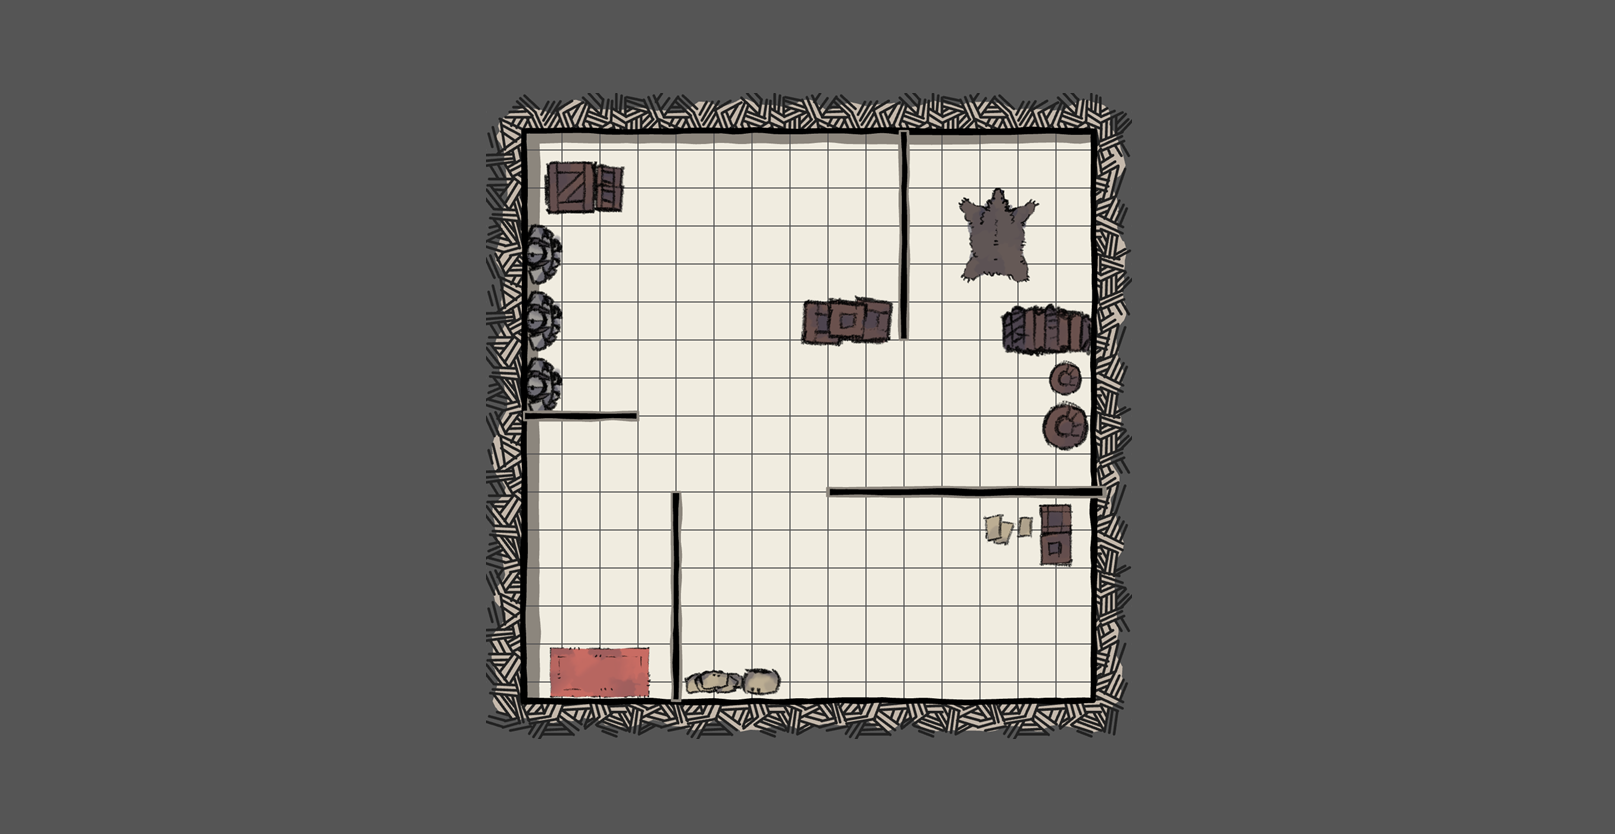
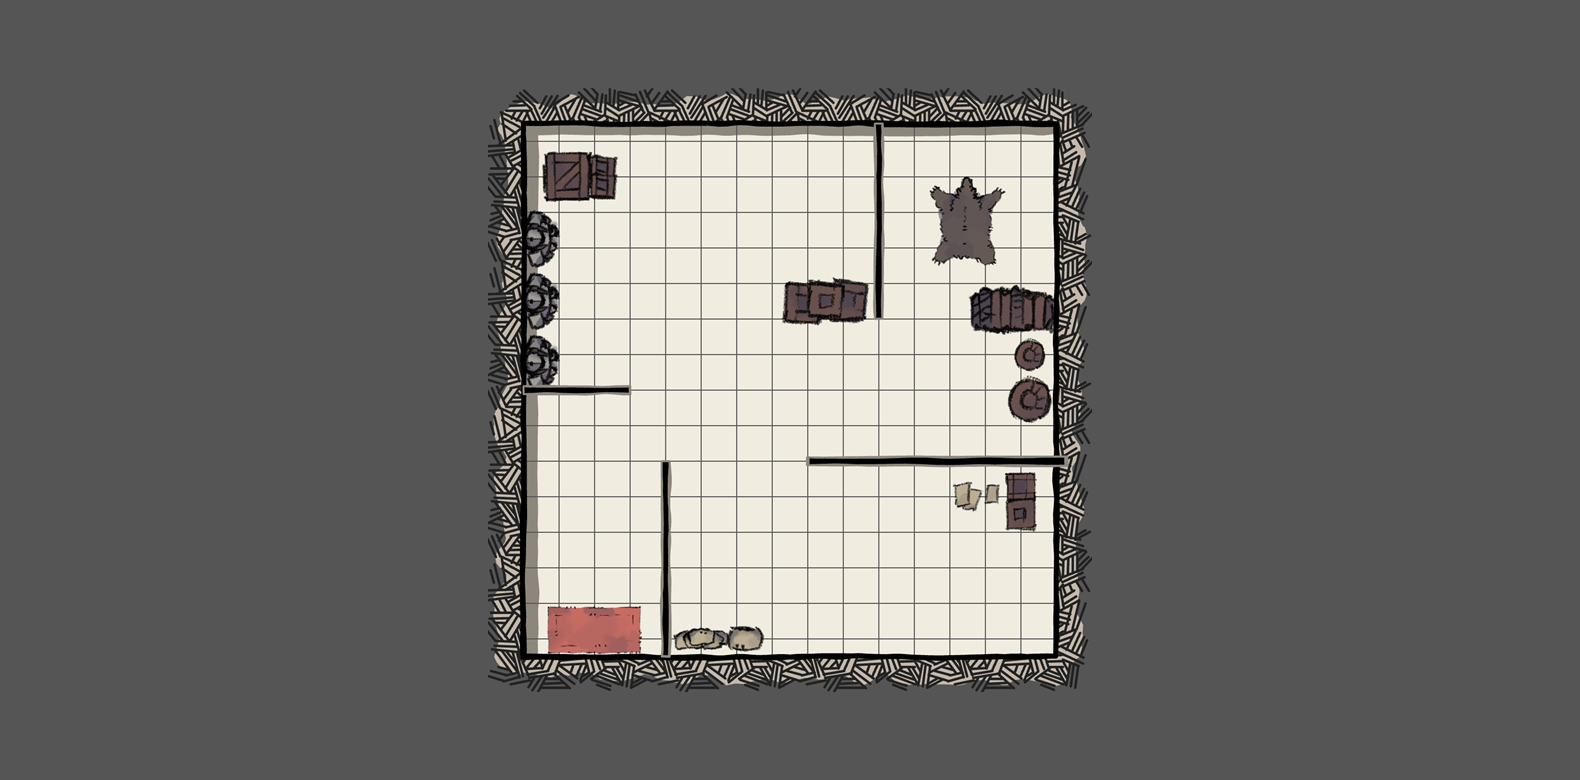
던전 크기 변경해서 다시 수정

Changed region(s): [[0.2791, 0.0923, 0.7133, 0.8923]]

diff --git a/legend_of_boki_ver2/(LOB)Legend Of Boki.py b/legend_of_boki_ver2/(LOB)Legend Of Boki.py
@@ -92,7 +92,7 @@ class SkillOption:
         return self.turn
 
 
-# 더 추가할 필요가 있다면 추가하시면 됩니다. 예: (from PyQt5.QtGui import QIcon)
+
 def resource_path(relative_path):
     base_path = getattr(sys, "_MEIPASS", os.path.dirname(os.path.abspath(__file__)))
     return os.path.join(base_path, relative_path)
@@ -152,6 +152,7 @@ class WindowClass(QMainWindow, game):
 
         # 유저는 보스를 이길 때까지 던전에 입장하지 못함
         self.user_can_enter_dungeon = False
+
         # 랜덤 던전 스팟 번호
         self.dungeon_number = 0
 
@@ -164,10 +165,11 @@ class WindowClass(QMainWindow, game):
         self.portal_sample.setText("포탈")
         self.portal_sample.setStyleSheet('background-color: blue')
         self.portal_sample.show()
+        self.portal_sample.move(random.randint(0, 1580), random.randint(0, 760))  # 포탈 위치 랜덤으로 배정
 
         #던전필드에 던전 이미지 들어갈 라벨 만들기
         self.dungeon_img_label = QLabel(self.Page_Dungeon_Field) #던전필드에 던전이미지 들어갈 라벨 추가, 던전필드를 부모로 설정
-        self.dungeon_img_label.setGeometry(0, 0, 1615, 834)
+        self.dungeon_img_label.setGeometry(0, 0, 1580, 780)
         self.dungeon_img_label.show()
 
         #  이 부분은 아래와 중복
@@ -181,17 +183,37 @@ class WindowClass(QMainWindow, game):
         #
         # random_spot = random.randint(1, 4)  # 시작 캐릭터 위치 랜덤으로 위치시키기
         # self.Character_QLabel.move(positions[random_spot][0], positions[random_spot][1])  # 캐릭터를 상하좌우로 위치시키기
-        self.portal_sample.move(random.randint(1, 1580), random.randint(1, 780))  # 포탈 위치 랜덤으로 배정
-
 
 
 
         # 던전 맵 사이즈(크기별)
         self.map_size = {
-            1: [529, 1087, 136, 695],  # 맵 1번 x시작, x끝, y시작, y끝
-            2: [510, 1106, 120, 713],  # 맵 2번 x시작, x끝, y시작, y끝
-            3: [488, 1127, 97, 736],  # 맵 3번 x시작, x끝, y시작, y끝
-            4: [471, 1145, 80, 754],  # 맵 4번 x시작, x끝, y시작, y끝
+            1: [529, 1049, 129, 649],  # 맵 1번 x시작, x끝, y시작, y끝
+            2: [505, 1063, 115, 664],  # 맵 2번 x시작, x끝, y시작, y끝
+            3: [491, 1088, 91, 688],  # 맵 3번 x시작, x끝, y시작, y끝
+            4: [475, 1104, 73, 703],  # 맵 4번 x시작, x끝, y시작, y끝
+        }
+
+        # 던전맵 벽 값 지정
+        self.wall_list = {
+            1: [(530, 631, 383, 397),  # 던전 맵 1
+                (650, 670, 455, 657),
+                (871, 885, 127, 320),
+                (800, 1051, 449, 470), ],
+            2: [(781, 798, 108, 322),  # 던전 맵 2
+                (502, 935, 451, 470)],
+            3: [(490, 708, 395, 417),  # 던전 맵 3
+                (694, 708, 401, 518),
+                (871, 887, 440, 696),
+                (870, 885, 89, 306),
+                (872, 953, 295, 307)],
+            4: [(475, 545, 311, 430),  # 던전 맵 4
+                (675, 720, 526, 535),
+                (650, 691, 207, 537),
+                (675, 939, 206, 219),
+                (904, 940, 204, 536),
+                (894, 940, 526, 538),
+                (928, 1109, 384, 397),]
         }
 
         # 던전필드에 있는 라벨 정보 가져오기
@@ -330,10 +352,8 @@ class WindowClass(QMainWindow, game):
 
         self.skill_14 = SkillOption("강타", None, random.randrange(2, 50), 10, 1, 1)
         self.skillall = [self.skill_1, self.skill_3, self.skill_4, self.skill_5, self.skill_6,
-                         self.skill_7,
-                         self.skill_8, self.skill_9, self.skill_10, self.skill_11, self.skill_12,
-                         self.skill_13,
-                         self.skill_14]
+                         self.skill_7, self.skill_8, self.skill_9, self.skill_10, self.skill_11,
+                         self.skill_12, self.skill_13, self.skill_14]
         if len(self.choice_btn) > 0:
             for skill in self.skillall:
                 if ((skill.name == self.choice_btn[0].text())
@@ -438,22 +458,23 @@ class WindowClass(QMainWindow, game):
         if random_dungeon_num == 1:
             self.dungeon_number = 1  # 키프레스가 인식해야할 값에 1로 넣어줌
             self.dungeon_img_label.setPixmap(dungeon_img_1)
+            # self.dungeon_img_label.move(0,0)
             # self.StackWidget_Field.setCurrentIndex(1)  # 1번 던전 필드로 이동
-            self.Character_QLabel_2.move(601, 673)  # 캐릭터 던전 입구로 보내기
+            self.Character_QLabel_2.move(592, 631)  # 캐릭터 던전 입구로 보내기
         elif random_dungeon_num == 2:
             self.dungeon_number = 2
             self.dungeon_img_label.setPixmap(dungeon_img_2)
-            self.Character_QLabel_2.move(572, 693)  # 캐릭터 던전 입구로 보내기
+            self.Character_QLabel_2.move(567, 644)  # 캐릭터 던전 입구로 보내기
             # self.Show_Dungeon_Entrance(2)  # 던전 입구 만들기
         elif random_dungeon_num == 3:
             self.dungeon_number = 3
             self.dungeon_img_label.setPixmap(dungeon_img_3)
-            self.Character_QLabel_2.move(560, 702)  # 캐릭터 던전 입구로 보내기
+            self.Character_QLabel_2.move(558, 657)  # 캐릭터 던전 입구로 보내기
             # self.Show_Dungeon_Entrance(3)  # 던전 입구 만들기
         elif random_dungeon_num == 4:
             self.dungeon_number = 4
             self.dungeon_img_label.setPixmap(dungeon_img_4)
-            self.Character_QLabel_2.move(503, 723)  # 캐릭터 던전 입구로 보내기
+            self.Character_QLabel_2.move(504, 674)  # 캐릭터 던전 입구로 보내기
             # self.Show_Dungeon_Entrance(4)  # 던전 입구 만들기
         self.Show_Dungeon_Entrance(random_dungeon_num)  # 던전 입구 만들기
 
@@ -479,11 +500,11 @@ class WindowClass(QMainWindow, game):
         self.boss_monster.show()
 
         # 검은 라벨 만들어서 위에 덮기(유저가 플레이할 때 던전이 안보이게) <= 일단 ㄱ
-        black_label = QLabel(self)
-        black_label.move(0, 30)
-        black_label.setStyleSheet('background-color: rgba(0, 0, 0, 200)') #200으로 설정되어 있는 투명도 높이면 어두워짐
-        black_label.setFixedSize(1580, 780)
-        black_label.show()
+        # black_label = QLabel(self)
+        # black_label.move(0, 0)
+        # black_label.setStyleSheet('background-color: rgba(0, 0, 0, 200)') #200으로 설정되어 있는 투명도 높이면 어두워짐
+        # black_label.setFixedSize(1580, 780)
+        # black_label.show()
 
     def block_dungeon_wall(self, new_position, previous_position, wall_list, num):
         """유저가 던전벽에서 나아가지 못하게 하기"""
@@ -582,34 +603,33 @@ class WindowClass(QMainWindow, game):
                     pass
                     enemy_rand = random.randrange(4)
                     if enemy_rand < 3:
-
                         self.Log_textEdit.setText("적을 만났습니다.")
-                        pass
-                        # self.StackWidget_Field.setCurrentIndex(2)
-                        # self.MainFrame_Bottom.setEnabled(True)
-                        # self.Page_Use.setEnabled(False)
-                        # self.StackWidget_Item.setCurrentWidget(self.Page_Use)
-                        # self.j = 1
-                        # for num in range(1, random.randrange(2, 11)):
-                        #     getattr(self, f'Monster_{num}_Name').setText(
-                        #         getattr(self, f'nomalfield_fire_monster{self.j}').name)  # 몬스터 이름
-                        #     getattr(self, f'Monster_{num}_Name').setStyleSheet("Color : white")
-                        #     getattr(self, f'Monster_{num}_QLabel').setPixmap(
-                        #         QPixmap(getattr(self, f'nomalfield_fire_monster{self.j}').image))  # 몬스터 이미지
-                        #     getattr(self, f'Monster_{num}_QProgressBar').setMaximum(
-                        #         getattr(self, f'nomalfield_fire_monster{self.j}').hp)  # 몬스터 체력
-                        #     getattr(self, f'Monster_{num}_QProgressBar').setValue(
-                        #         getattr(self, f'nomalfield_fire_monster{self.j}').hp)  # 몬스터 체력
-                        #     getattr(self, f'Monster_{num}_QButton').setEnabled(False)
-                        #     getattr(self, f'Monster_{num}_Name').show()
-                        #     getattr(self, f'Monster_{num}_QLabel').show()
-                        #     getattr(self, f'Monster_{num}_QButton').show()
-                        #     getattr(self, f'Monster_{num}_QProgressBar').show()
-                        #     if self.j < 3:
-                        #         self.j += 1
-                        #     else:
-                        #         self.j = 1
-                        # self.HoldSwitch = 1  # 스택 위젯 페이지 이동후에도 캐릭터 이동하는 현상 예외처리
+
+                        self.StackWidget_Field.setCurrentIndex(2)
+                        self.MainFrame_Bottom.setEnabled(True)
+                        self.Page_Use.setEnabled(False)
+                        self.StackWidget_Item.setCurrentWidget(self.Page_Use)
+                        self.j = 1
+                        for num in range(1, random.randrange(2, 11)):
+                            getattr(self, f'Monster_{num}_Name').setText(
+                                getattr(self, f'nomalfield_fire_monster{self.j}').name)  # 몬스터 이름
+                            getattr(self, f'Monster_{num}_Name').setStyleSheet("Color : white")
+                            getattr(self, f'Monster_{num}_QLabel').setPixmap(
+                                QPixmap(getattr(self, f'nomalfield_fire_monster{self.j}').image))  # 몬스터 이미지
+                            getattr(self, f'Monster_{num}_QProgressBar').setMaximum(
+                                getattr(self, f'nomalfield_fire_monster{self.j}').hp)  # 몬스터 체력
+                            getattr(self, f'Monster_{num}_QProgressBar').setValue(
+                                getattr(self, f'nomalfield_fire_monster{self.j}').hp)  # 몬스터 체력
+                            getattr(self, f'Monster_{num}_QButton').setEnabled(False)
+                            getattr(self, f'Monster_{num}_Name').show()
+                            getattr(self, f'Monster_{num}_QLabel').show()
+                            getattr(self, f'Monster_{num}_QButton').show()
+                            getattr(self, f'Monster_{num}_QProgressBar').show()
+                            if self.j < 3:
+                                self.j += 1
+                            else:
+                                self.j = 1
+                        self.HoldSwitch = 1  # 스택 위젯 페이지 이동후에도 캐릭터 이동하는 현상 예외처리
                     else:
                         self.Log_textEdit.append("타 수호대를 만났습니다.")
                         # self.StackWidget_Field.setCurrentIndex(2)
@@ -679,26 +699,7 @@ class WindowClass(QMainWindow, game):
                 self.show_messagebox("미궁을 만났습니다!")
 
             # 던전 벽 캐릭터가 벗어나지 못하게
-            # 던전맵 벽 값 지정
-            wall_list = {
-                1: [(899, 908, 131, 338),  # 던전 맵 1
-                    (522, 638, 412, 420),
-                    (660, 680, 490, 700),
-                    (829, 1091, 488, 496), ],
-                2: [(800, 820, 117, 341),  # 던전 맵 2
-                    (509, 962, 486, 500)],
-                3: [(893, 909, 96, 327),  # 던전 맵 3
-                    (898, 981, 317, 329),
-                    (488, 718, 429, 443),
-                    (690, 720, 431, 553),
-                    (897, 910, 473, 741)],
-                4: [(680, 967, 203, 233),  # 던전 맵 4
-                    (663, 703, 224, 575),
-                    (954, 969, 221, 577),
-                    (683, 737, 557, 575),
-                    (918, 969, 562, 578),
-                    (950, 1157, 408, 424), ]
-            }
+
 
             # 15*15 사이즈 맵에 들어갔을 때
             if self.dungeon_number == 1:
@@ -707,7 +708,7 @@ class WindowClass(QMainWindow, game):
                         self.map_size[1][2] < new_position.y() < self.map_size[1][3])):  # 미궁 x값, 미궁 y값 설정
                     self.Character_QLabel_2.setGeometry(previous_position)
                 # 던전 내에 위치한 벽을 벗어나지 못하게 함
-                if self.block_dungeon_wall(new_position, previous_position, wall_list, 1):
+                if self.block_dungeon_wall(new_position, previous_position, self.wall_list, 1):
                     self.Character_QLabel_2.setGeometry(previous_position)
 
             # 16 * 16 사이즈 맵에 들어갔을 때
@@ -715,7 +716,7 @@ class WindowClass(QMainWindow, game):
                 if not ((self.map_size[2][0] <= new_position.x() <= self.map_size[2][1]) and (
                         self.map_size[2][2] < new_position.y() < self.map_size[2][3])):  # 미궁 x값, 미궁 y값 설정
                     self.Character_QLabel_2.setGeometry(previous_position)
-                if self.block_dungeon_wall(new_position, previous_position, wall_list, 2):
+                if self.block_dungeon_wall(new_position, previous_position, self.wall_list, 2):
                     self.Character_QLabel_2.setGeometry(previous_position)
 
             # 17 * 17 사이즈 맵에 들어갔을 때
@@ -723,7 +724,7 @@ class WindowClass(QMainWindow, game):
                 if not ((self.map_size[3][0] <= new_position.x() <= self.map_size[3][1]) and (
                         self.map_size[3][2] < new_position.y() < self.map_size[3][3])):  # 미궁 x값, 미궁 y값 설정
                     self.Character_QLabel_2.setGeometry(previous_position)
-                if self.block_dungeon_wall(new_position, previous_position, wall_list, 3):
+                if self.block_dungeon_wall(new_position, previous_position, self.wall_list, 3):
                     self.Character_QLabel_2.setGeometry(previous_position)
 
             # 18 * 18 사이즈 맵에 들어갔을 때
@@ -731,7 +732,7 @@ class WindowClass(QMainWindow, game):
                 if not ((self.map_size[4][0] <= new_position.x() <= self.map_size[4][1]) and (
                         self.map_size[4][2] < new_position.y() < self.map_size[4][3])):  # 미궁 x값, 미궁 y값 설정
                     self.Character_QLabel_2.setGeometry(previous_position)
-                if self.block_dungeon_wall(new_position, previous_position, wall_list, 4):
+                if self.block_dungeon_wall(new_position, previous_position, self.wall_list, 4):
                     self.Character_QLabel_2.setGeometry(previous_position)
 
     # # 이외 필드일때(전투일때) pass
